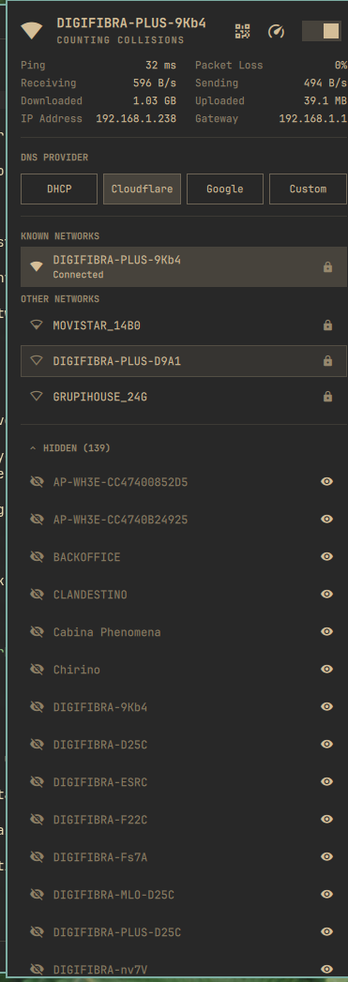
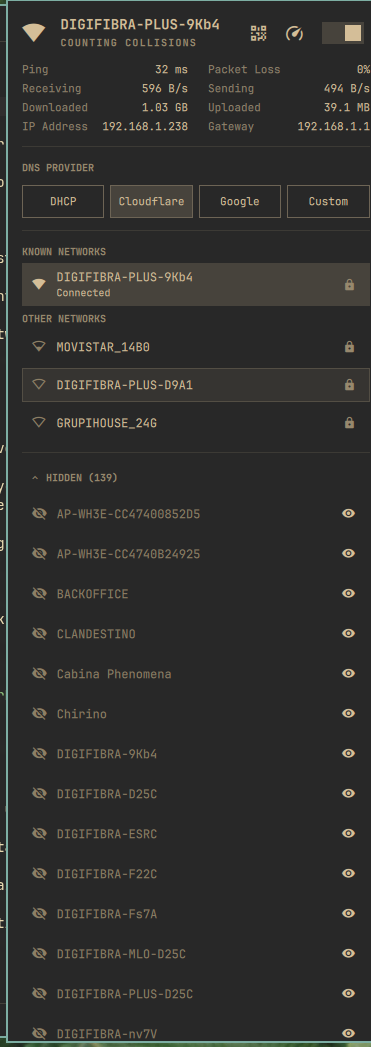
Show full screenshot in README

diff --git a/README.md b/README.md
@@ -9,6 +9,10 @@ neighbours. With this plugin you can mark any network as *hidden*, and it will
 never appear in a scan again — while the network you're currently connected to
 always stays visible.
 
+## Screenshot
+
+![Wi-Fi panel with the ability to hide networks](preview.png)
+
 ## Features
 
 - Connect / disconnect / forget networks (everything the stock widget does).
